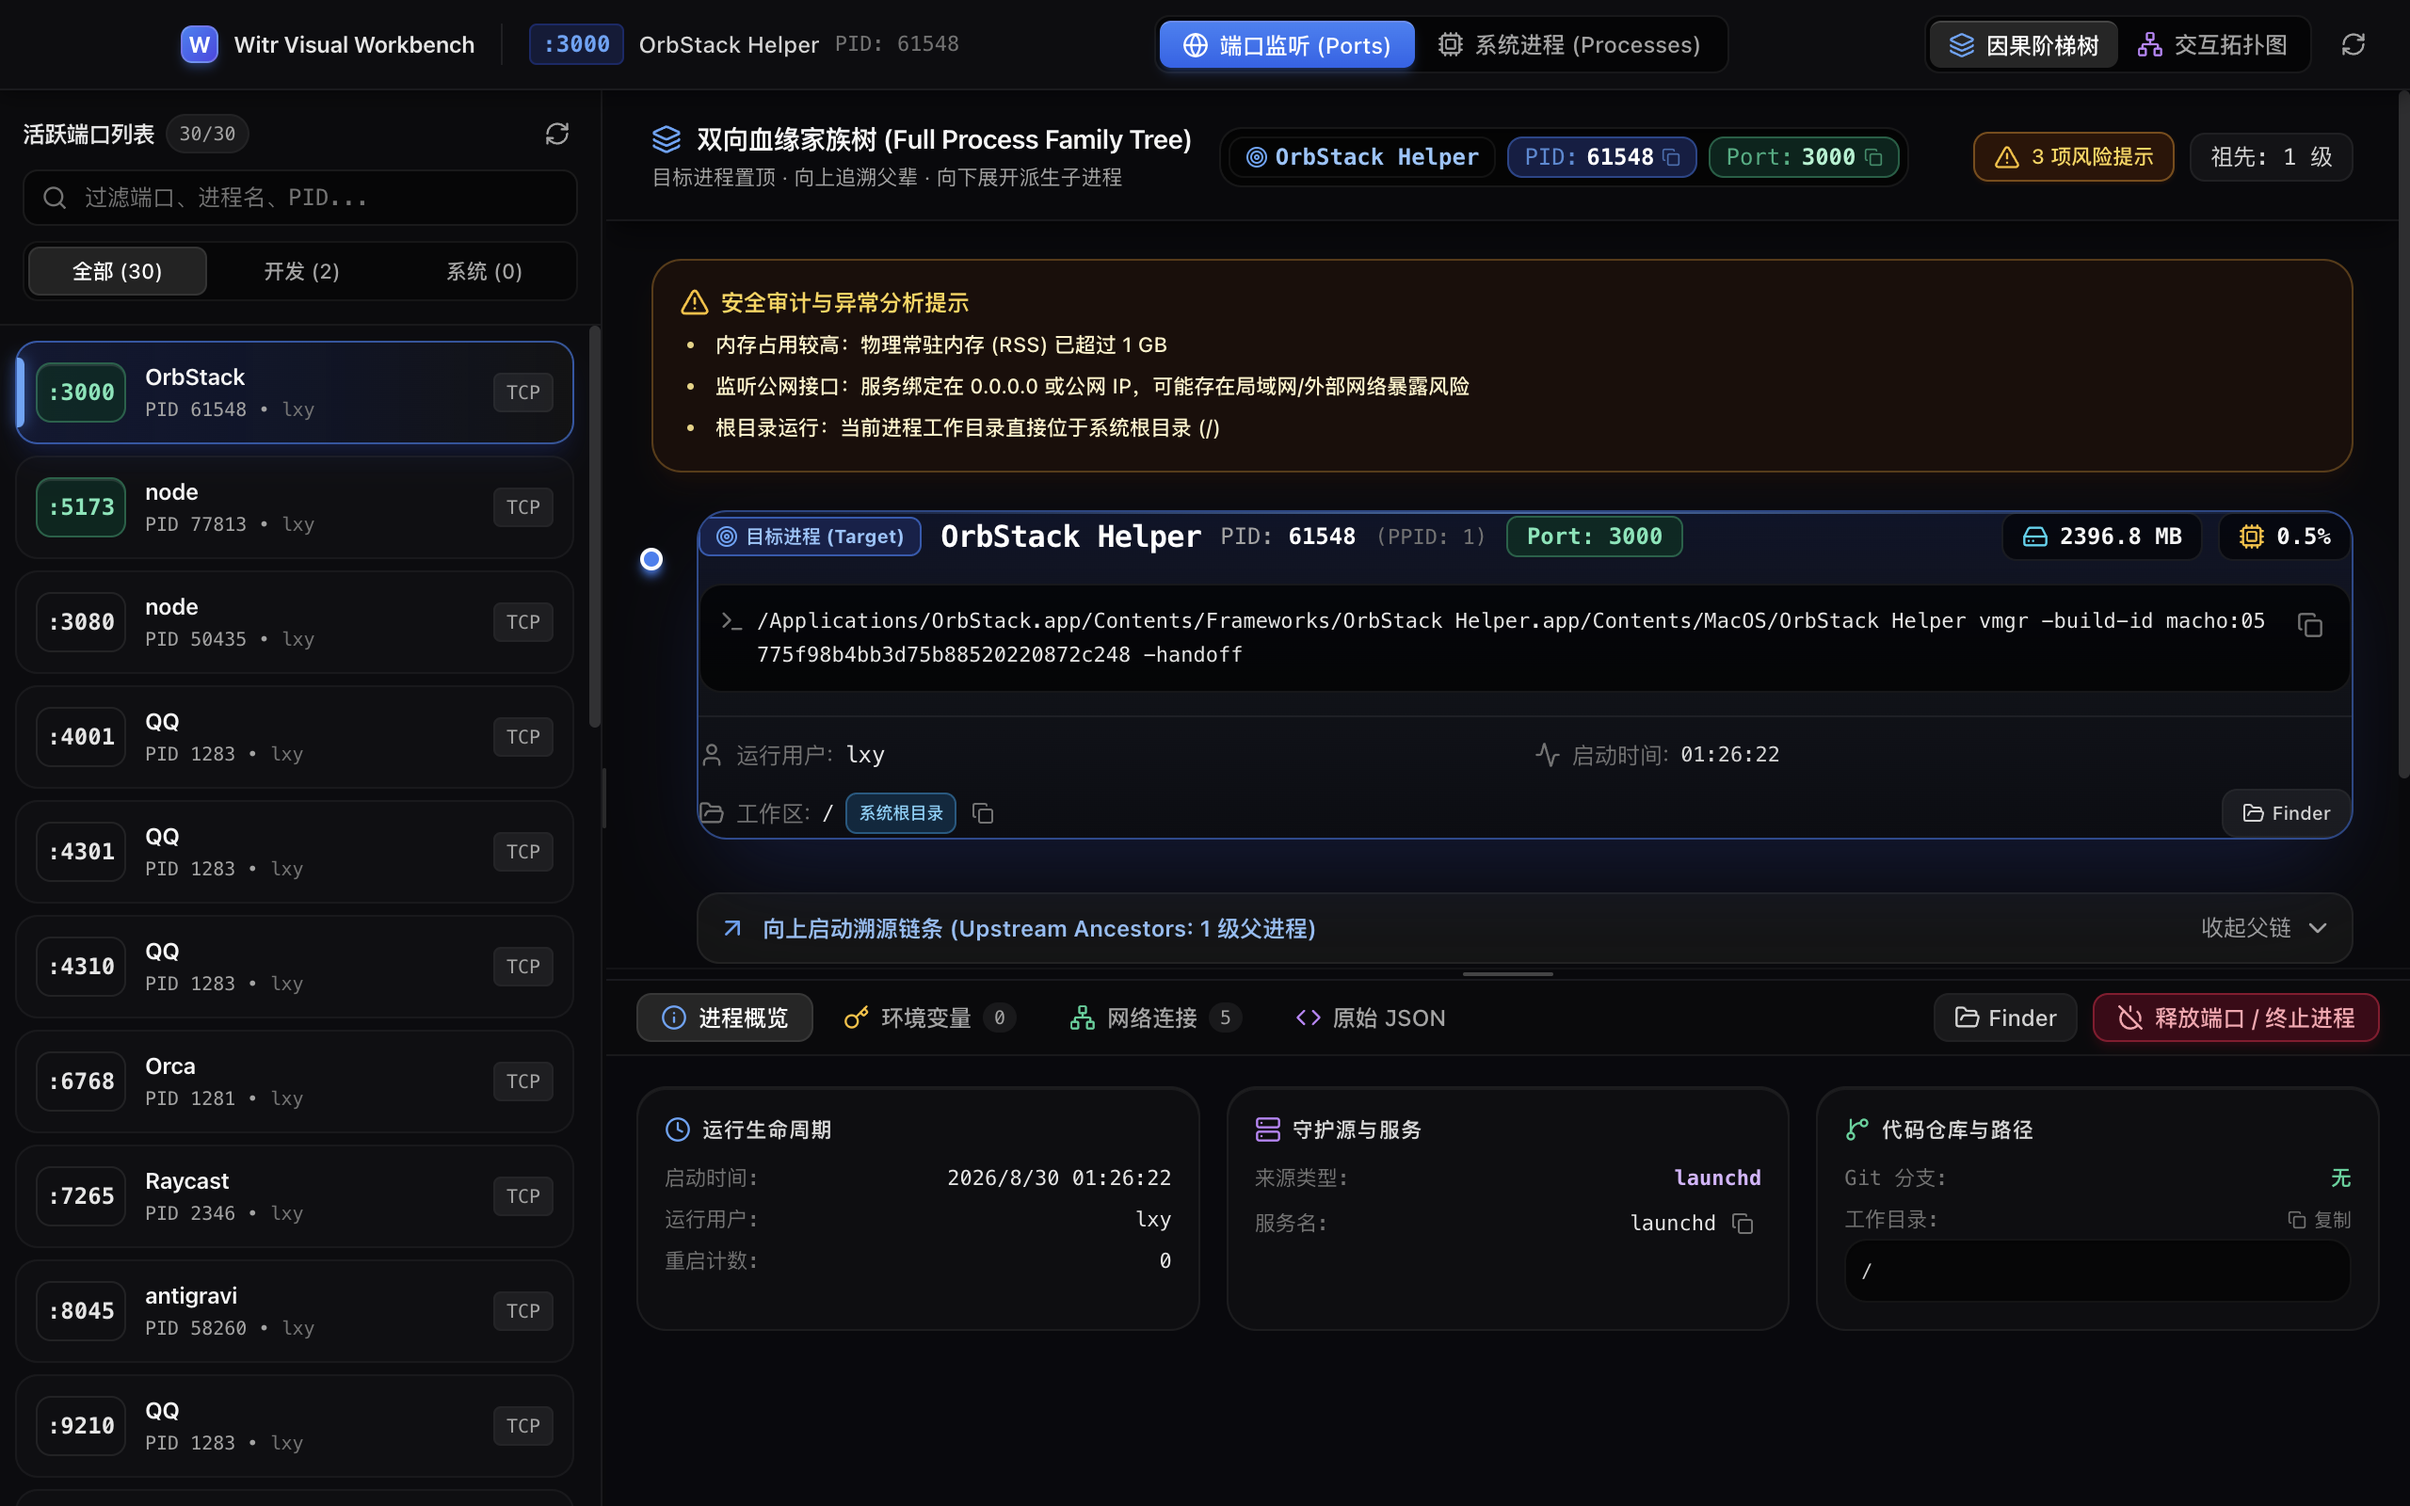
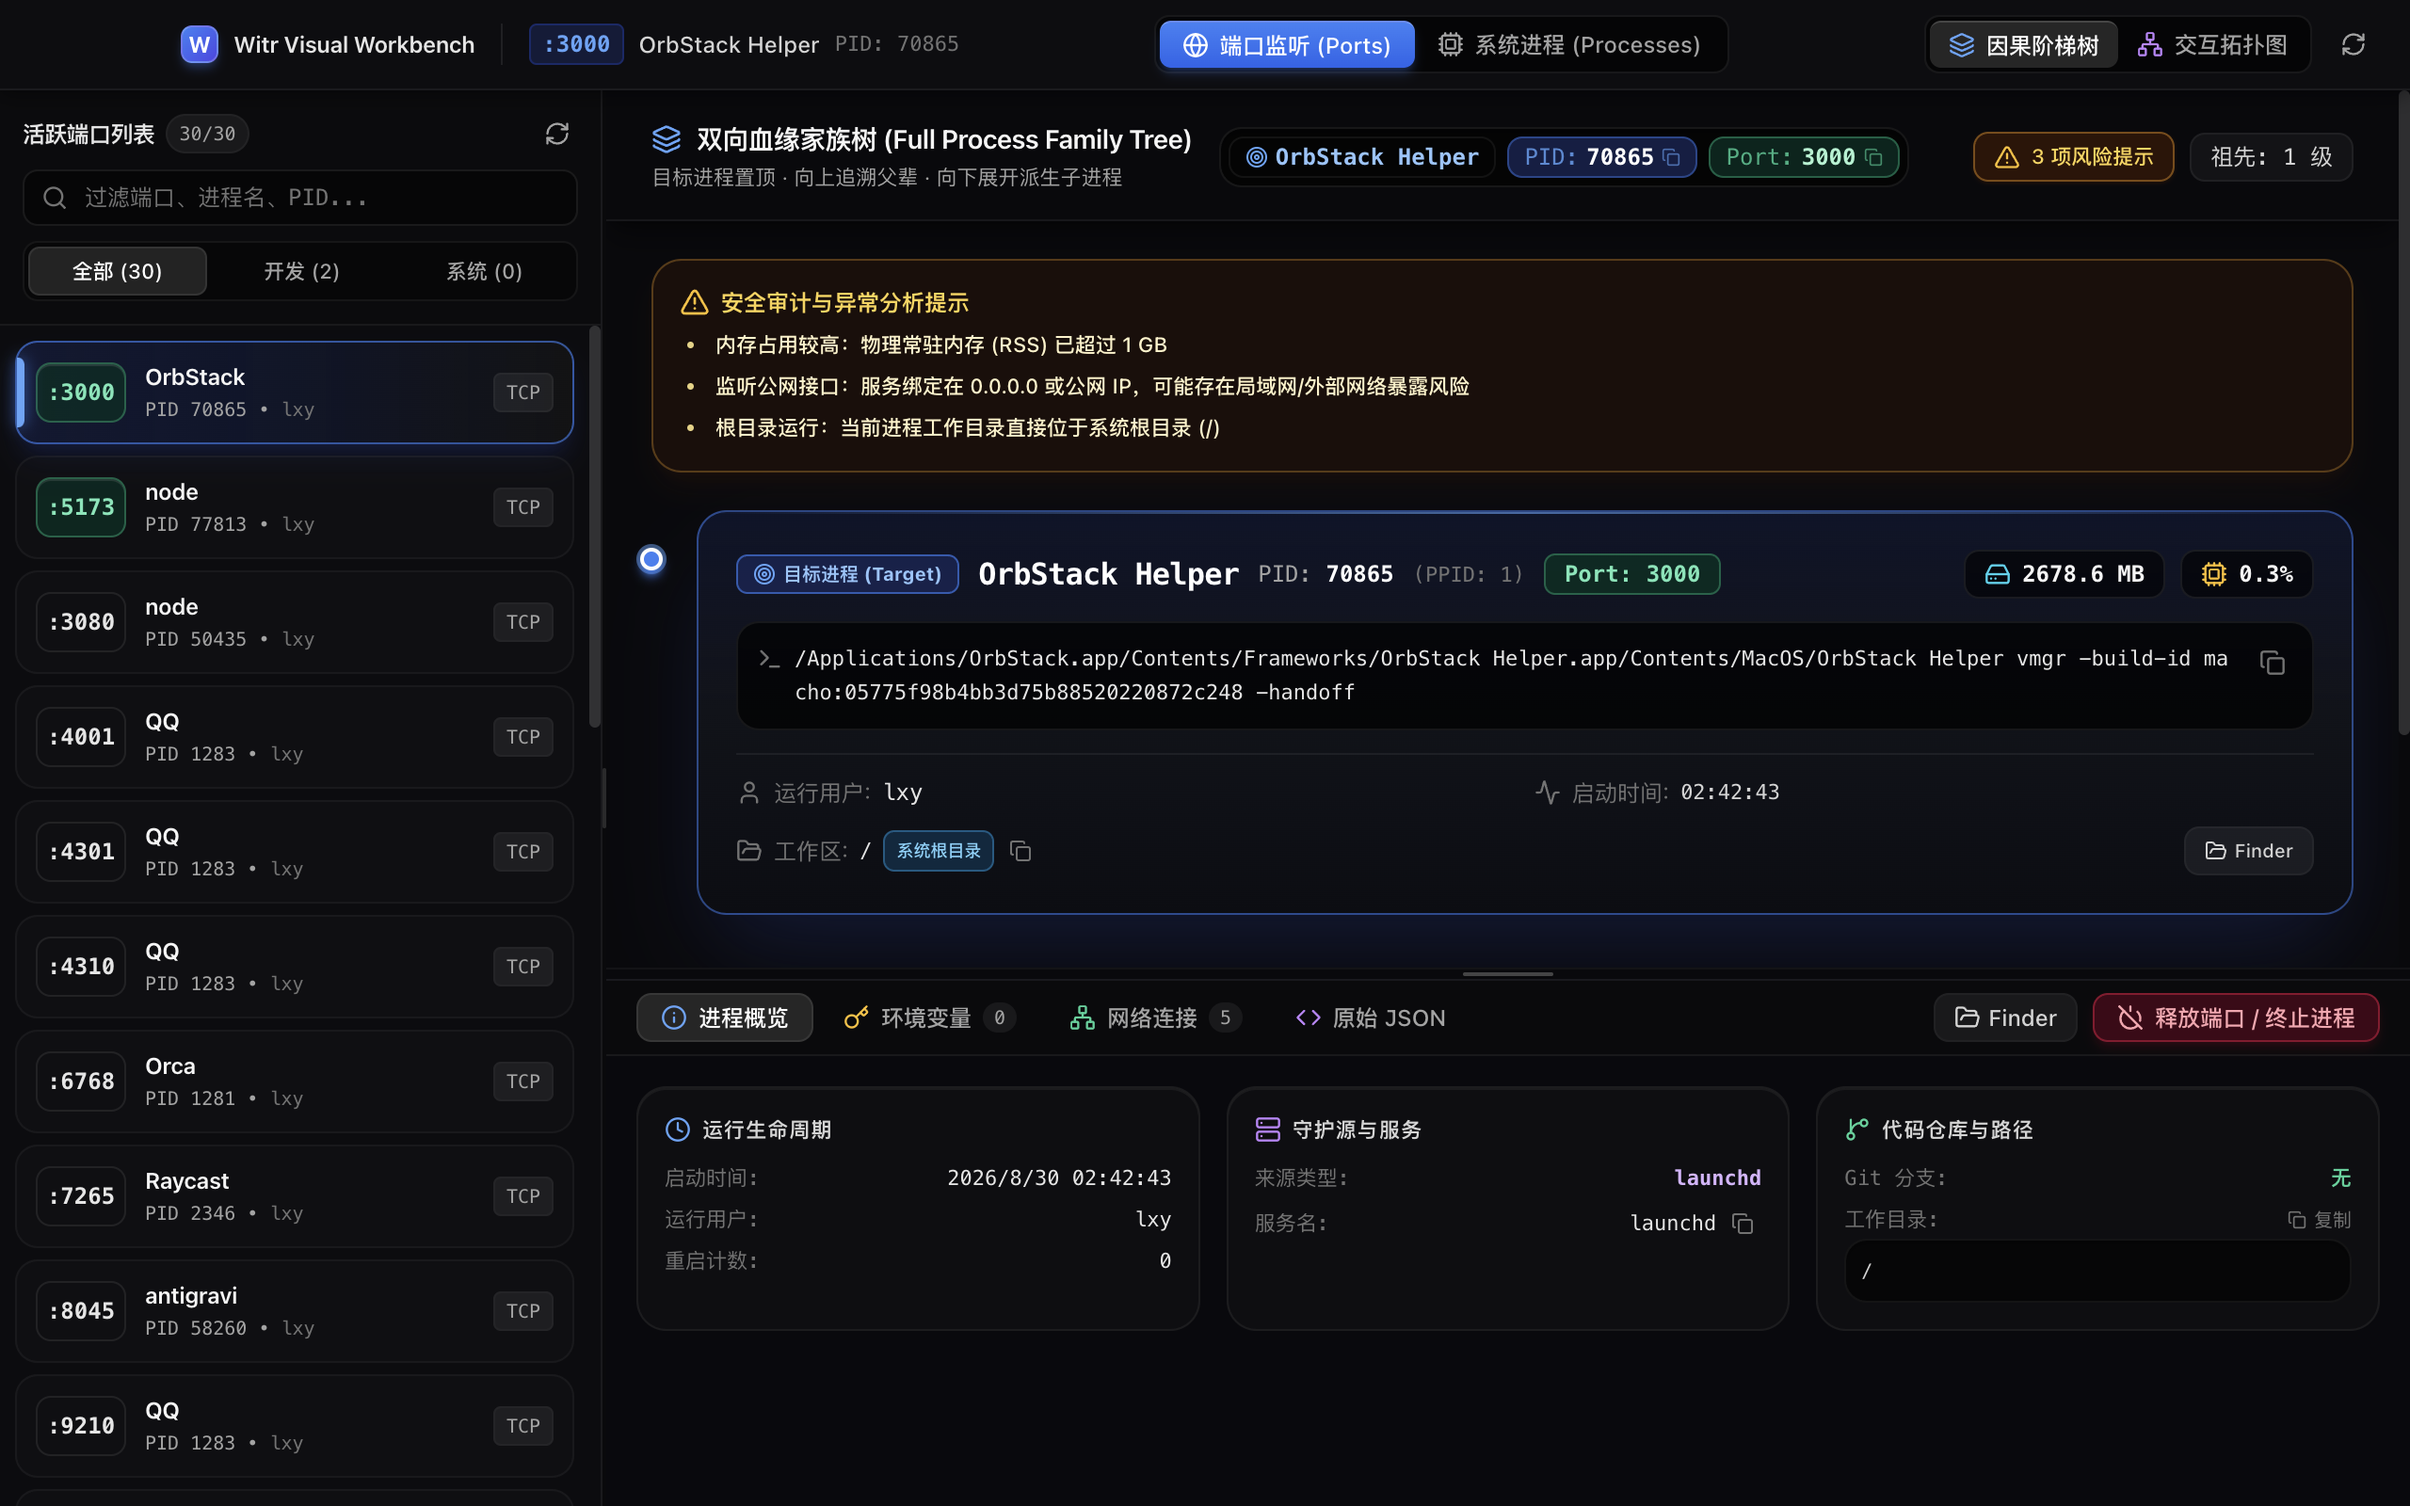
fix(ui): resolve Target card corner clipping by applying standard p-5 breathing padding

diff --git a/src/renderer/src/components/workbench/CausalTree.tsx b/src/renderer/src/components/workbench/CausalTree.tsx
@@ -195,7 +195,7 @@ export const CausalTree: React.FC = () => {
             <span className="relative inline-flex rounded-full h-3 w-3 bg-blue-500 border-2 border-white shadow-md shadow-blue-500" />
           </div>
 
-          <div className="p-4.5 rounded-2xl border border-blue-500/50 bg-gradient-to-b from-blue-950/40 via-[#11131a] to-[#0c0d12] shadow-2xl shadow-blue-950/60 backdrop-blur-xl transition-all relative overflow-hidden">
+          <div className="p-5 rounded-2xl border border-blue-500/50 bg-gradient-to-b from-blue-950/40 via-[#11131a] to-[#0c0d12] shadow-2xl shadow-blue-950/60 backdrop-blur-xl transition-all relative overflow-hidden">
             {/* Top Ambient Glow Highlight */}
             <div className="absolute top-0 left-0 right-0 h-px bg-gradient-to-r from-transparent via-blue-400/60 to-transparent" />
 
